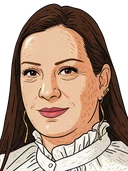
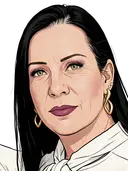
T40: portraits re-cropped to the crown rule, 1204 hi tier, crown spread 28.1pts to 0.187
Claude-Session: https://claude.ai/code/session_012f732y72yWQYBURyUUjGiZ

diff --git a/proto.js b/proto.js
@@ -1731,10 +1731,13 @@ function deckCard(i) {
   front.innerHTML =
     '<span class="mf-b__halo"></span>' +
     /* `hi` IS THE NATIVE CROP, `400` the fallback. .mf-b__port draws at 401
-       CSS px, so under the DPR-3 rule this wants a 1203px file; the masters
-       top out at the crop box (474-723px), which is what `hi` is. It is
-       still 1.18-1.80x rather than 3x — see manifest.json's `dpr` per
-       portrait and the ceiling note in frame_mk.py. */
+       CSS px, so under the DPR-3 rule this wants a 1204px file, and T40 is
+       where `hi` finally became one: the whole set is re-cropped from the
+       1360x2048 masters to 1204x1605, so `dpr` is 3 for all 28 rather than
+       the old 1.18-1.80x ceiling. The crop is anchored on the CROWN, not on
+       the frame — every portrait puts the top of the head at 2.4% of its own
+       height, which is what stops the head jumping card to card as the
+       cascade deals. See manifest.json's `portrait_crop_rule`. */
     (art
       ? '<img class="mf-b__port" src="' + ROOT + (art.hi || art['400']) + '" alt="">'
       : '<span class="mf-b__badge">' + esc(initials(pol.name)) + '</span>') +
@@ -10308,6 +10311,27 @@ function applyDev() {
 fetch('explorations/v16/prototype/manifest.json')
   .then(r => r.json())
   .then(j => { M = j;
+    /* MK-PORTRAITS · ONE WARN, AT LOAD, LISTING WHAT HAS NO ART.
+       The initials badge is the shipped answer for a politician with no
+       portrait and it stays — deckCard() builds it, the manifest's own
+       `fallback` block documents it, and it NEVER substitutes another
+       person's face. What the badge cannot do is tell the difference
+       between a portrait that was never made and one that was lost, and
+       both look identical on the card.
+       SO THE DIFFERENCE IS SAID ONCE, HERE, IN THE CONSOLE. Not a throw:
+       a missing face must never stop a round. Not UI: the player is not
+       the audience for an asset gap. Not a placeholder file: that is the
+       thing the fallback rule forbids. One line, at the only moment the
+       whole roster and the whole manifest are both in hand.
+       IT READS data.js, WHICH IS THE ROSTER. The manifest is the art
+       index and can hold entries for people the game no longer deals —
+       six of them today; those are not missing art and are not warned
+       about. */
+    try {
+      const missing = Object.keys(DATA.politicians)
+        .filter(k => !(M.politicians && M.politicians[k]));
+      if (missing.length) console.warn('[mk] no portrait for: ' + missing.join(', '));
+    } catch (e) { /* a warn may never be the thing that breaks a load */ }
     /* THE CARD BACK'S ARTWORK, from the manifest like every other asset —
        props.card_back, added to make_manifest.py when the set was
        reframed. The literal is a fallback for a manifest generated before
